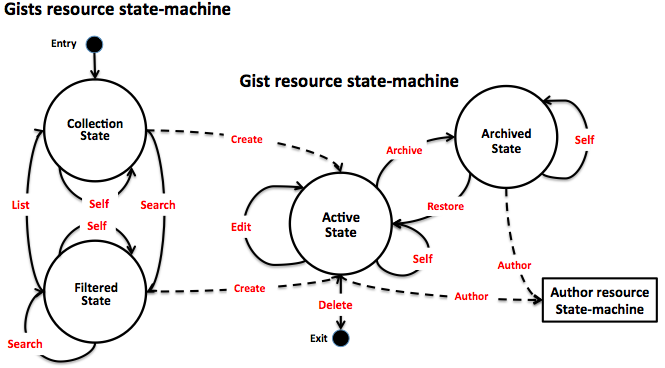
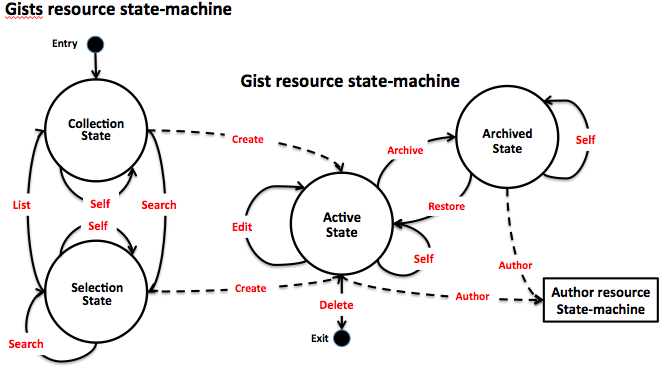
Minor polishing and updating images

diff --git a/README.md b/README.md
@@ -14,16 +14,17 @@ modeling API resources, their attributes, [affordances](http://en.wikipedia.org/
 The following highlights the API design concepts underlying a Resource Blueprint.
 
 * **Semantically define data and affordances** (link relations).
-* **Define state-machines** representing a resource and its transitions in different states (business rules)
-**and the conditions** (permissions) for their inclusion in a response.
+* **Define state-machines** representing a resource.
+    * Includes transitions in different states (business rules) and the conditions (permissions) for their inclusion 
+    in a response.
     * Ideally, this should ultimately draw the state-machine as part of the design process.
     * Will be used mock the API to act as a true hypermedia API based on state.
 * **Specify supported media-types.**
     * The API Blueprint parser will generate sample representations based on the semantics, state-machine and 
     known media-types.
 * **Specify the entry point to the resource.**
-* **Adding metadata to elements** that could be used to define a profile (e.g. ALPS) from the blueprint and other uses in 
-the machine-readable output of the API Blueprint parser.
+* **Adding metadata to elements** that could be used to define a profile (e.g. [ALPS](http://alps.io/spec/index.html)) 
+from the blueprint and other uses in the machine-readable output of the API Blueprint parser.
 * **Enter protocol specific information** as an implementation detail well after having designed the actual API.
     * Initially only supports HTTP protocol.
     * The only actual URI you will see in the human-readable version is the entry point, even though you can enter 
@@ -45,7 +46,7 @@ resource blueprints to represent the overall API application state-machine.
 
 <a name="def-use-case-api"></a>
 ## Use Case - Gist API State Machine
-The example API used throughout this proposal is of an imaginary GitHub's Gist-like service. This example API demonstrates **Gist API State Machine** on the `Gists collection` and `Gist entity` resources.
+The example API used throughout this proposal is of an imaginary GitHub's Gist-like service. This example API demonstrates **Gist API State Machine** on the `Gists` (collection) and `Gist` (entity) resources.
 
 ### Gists Resource 
 An entry point to Resource Blueprint Gist API is the `Gists` resource in its `collection` state. This resource has two states: `collection` and 
@@ -62,21 +63,21 @@ This diagram translates to the following resource blueprint:
  ... 
 
 ### Affordances
-+ list_all
++ list
 + create
 + search
 
 ### States
 + collection (entry point)
     + Affordances
-        + list_all (self) -> collection
+        + self(list) -> collection
         + create -> [Gist@active][]
         + search -> selection
 
 + selection
     + Affordances
-        + search (self) -> selection
-        + list_all -> collection
+        + self(search) -> selection
+        + list -> collection
         + create -> [Gist@active][]
 ```
 
@@ -107,16 +108,15 @@ Represented in resource blueprint as:
 ### States
 + active
     + Affordances
-        + show (self) -> active
+        + self(show) -> active
         + edit -> active
-        + delete (exit point)
+        + delete -> (exit point)
         + archive -> archived
-        + restore -> active
         + author -> [Author@default][]
 
 + archived
     + Affordances
-        + show (self) -> archived
+        + show(self) -> archived
         + restore -> active
         + author -> [Author@default][]
 ```
@@ -133,7 +133,7 @@ Finally, an individual `Gist` resource embedded in the `items` attribute of a `G
 + total_count (number) ... The total count of gists in the actual collection/selection.
 
 + items (array) ... An array of embedded individual Gist entities.
-    + Embeded Entities
+    + Embedded Entities
         + [Gist][]
 ```
 
@@ -187,7 +187,7 @@ New keywords introduced in the Resource Blueprint are:
 
 +   `Metadata` ... Specific metadata as [planned for Format 1A](https://github.com/apiaryio/api-blueprint/issues/38). 
     
-    The Gists Resource of *Gist API* demonstrates additional metadata to be used for generating an [ALPS profile](http://amundsen.com/hypermedia/profiles/). 
+    The Gists Resource of *Gist API* demonstrates additional metadata to be used for generating an [ALPS profile](http://alps.io/spec). 
 
 > **Note:** Consider using `Alt keywords` instead of proposed keywords to improve clarity for general audience.
 

diff --git a/examples/Gist API.md b/examples/Gist API.md
@@ -18,13 +18,13 @@ The properties of a gist collection (Gists resource).
     + Traits
         + profile_type: semantic
 
-    + Embeded Entities
+    + Embedded Entities
         + [Gist][]
 
 ### Affordances
 Link relations of a gist collection.
 
-+ list_all ... List the complete, unfiltered collection.
++ list ... List the complete, unfiltered collection.
     + Traits
         + profile_type: safe      
 
@@ -68,7 +68,7 @@ States / state machine of a gist collection.
 
 + collection (entry point)
     + Affordances
-        + list (self) -> collection
+        + self(list) -> collection
         + create -> [Gist@active][]
             + Conditions
                 + can_create
@@ -78,9 +78,9 @@ States / state machine of a gist collection.
         + next -> navigation
         + last -> navigation
 
-+ navigation
++ selection
     + Affordances
-        + search (self) -> navigation
+        + self(search) -> navigation
         + list -> collection
         + create -> [Gist@active][]
             + Conditions
@@ -180,9 +180,8 @@ HTTP protocol-specific implementation.
     + Affordances
         + show (self) -> active
         + edit -> active
-        + delete (exit point)
+        + delete -> (exit point)
         + archive -> archived
-        + restore -> active
         + author -> [Author@defaul][]
 
 + archived
